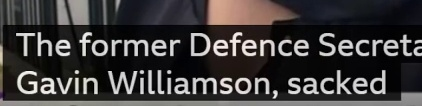
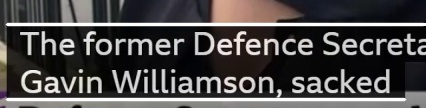
Added restrictions to prevent window navigation without filling required information. Also added 3 channel check to drawHough to make hough lines white on colour images (i.e. framePreview)

diff --git a/SubScraperGUI/GeneratedFiles/ui_OutputSelect.h b/SubScraperGUI/GeneratedFiles/ui_OutputSelect.h
@@ -23,14 +23,15 @@ class Ui_OutputSelect
 {
 public:
     QGridLayout *gridLayout;
-    QLabel *outputLabel;
     QLineEdit *outputLineEdit;
-    QPushButton *outputFileSelect;
     QLabel *transcriptLabel;
     QLineEdit *transcriptLineEdit;
-    QPushButton *transcriptFileSelect;
+    QPushButton *outputFileSelect;
     QPushButton *backButton;
+    QPushButton *transcriptFileSelect;
+    QLabel *outputLabel;
     QPushButton *goButton;
+    QLabel *continueWarning;
 
     void setupUi(QWidget *OutputSelect)
     {
@@ -41,20 +42,10 @@ public:
         gridLayout->setSpacing(6);
         gridLayout->setContentsMargins(11, 11, 11, 11);
         gridLayout->setObjectName(QString::fromUtf8("gridLayout"));
-        outputLabel = new QLabel(OutputSelect);
-        outputLabel->setObjectName(QString::fromUtf8("outputLabel"));
-
-        gridLayout->addWidget(outputLabel, 0, 0, 1, 1);
-
         outputLineEdit = new QLineEdit(OutputSelect);
         outputLineEdit->setObjectName(QString::fromUtf8("outputLineEdit"));
 
         gridLayout->addWidget(outputLineEdit, 1, 0, 1, 2);
-
-        outputFileSelect = new QPushButton(OutputSelect);
-        outputFileSelect->setObjectName(QString::fromUtf8("outputFileSelect"));
-
-        gridLayout->addWidget(outputFileSelect, 1, 2, 1, 1);
 
         transcriptLabel = new QLabel(OutputSelect);
         transcriptLabel->setObjectName(QString::fromUtf8("transcriptLabel"));
@@ -66,20 +57,35 @@ public:
 
         gridLayout->addWidget(transcriptLineEdit, 3, 0, 1, 2);
 
+        outputFileSelect = new QPushButton(OutputSelect);
+        outputFileSelect->setObjectName(QString::fromUtf8("outputFileSelect"));
+
+        gridLayout->addWidget(outputFileSelect, 1, 2, 1, 1);
+
+        backButton = new QPushButton(OutputSelect);
+        backButton->setObjectName(QString::fromUtf8("backButton"));
+
+        gridLayout->addWidget(backButton, 5, 0, 1, 1);
+
         transcriptFileSelect = new QPushButton(OutputSelect);
         transcriptFileSelect->setObjectName(QString::fromUtf8("transcriptFileSelect"));
 
         gridLayout->addWidget(transcriptFileSelect, 3, 2, 1, 1);
 
-        backButton = new QPushButton(OutputSelect);
-        backButton->setObjectName(QString::fromUtf8("backButton"));
+        outputLabel = new QLabel(OutputSelect);
+        outputLabel->setObjectName(QString::fromUtf8("outputLabel"));
 
-        gridLayout->addWidget(backButton, 4, 0, 1, 1);
+        gridLayout->addWidget(outputLabel, 0, 0, 1, 1);
 
         goButton = new QPushButton(OutputSelect);
         goButton->setObjectName(QString::fromUtf8("goButton"));
 
-        gridLayout->addWidget(goButton, 4, 1, 1, 2);
+        gridLayout->addWidget(goButton, 5, 1, 1, 2);
+
+        continueWarning = new QLabel(OutputSelect);
+        continueWarning->setObjectName(QString::fromUtf8("continueWarning"));
+
+        gridLayout->addWidget(continueWarning, 4, 0, 1, 1);
 
 
         retranslateUi(OutputSelect);
@@ -90,12 +96,13 @@ public:
     void retranslateUi(QWidget *OutputSelect)
     {
         OutputSelect->setWindowTitle(QCoreApplication::translate("OutputSelect", "OutputSelect", nullptr));
-        outputLabel->setText(QCoreApplication::translate("OutputSelect", "Output file:", nullptr));
-        outputFileSelect->setText(QCoreApplication::translate("OutputSelect", "...", nullptr));
         transcriptLabel->setText(QCoreApplication::translate("OutputSelect", "Transcript file:", nullptr));
-        transcriptFileSelect->setText(QCoreApplication::translate("OutputSelect", "...", nullptr));
+        outputFileSelect->setText(QCoreApplication::translate("OutputSelect", "...", nullptr));
         backButton->setText(QCoreApplication::translate("OutputSelect", "Back", nullptr));
+        transcriptFileSelect->setText(QCoreApplication::translate("OutputSelect", "...", nullptr));
+        outputLabel->setText(QCoreApplication::translate("OutputSelect", "Output file:", nullptr));
         goButton->setText(QCoreApplication::translate("OutputSelect", "Go", nullptr));
+        continueWarning->setText(QString());
     } // retranslateUi
 
 };

diff --git a/SubScraperGUI/GeneratedFiles/ui_BuildProfile.h b/SubScraperGUI/GeneratedFiles/ui_BuildProfile.h
@@ -34,7 +34,6 @@ public:
     QHBoxLayout *horizontalLayout_2;
     QLineEdit *inputLineEdit;
     QPushButton *fileSelect;
-    QSpacerItem *horizontalSpacer_2;
     QPushButton *previewButton;
     QHBoxLayout *horizontalLayout_3;
     QLabel *widthBeginLabel;
@@ -53,6 +52,7 @@ public:
     QPushButton *continueButton;
     QPushButton *frameForward;
     QHBoxLayout *horizontalLayout_5;
+    QLabel *continueWarning;
     QSpacerItem *horizontalSpacer;
     QPushButton *backButton;
 
@@ -94,10 +94,6 @@ public:
         fileSelect->setObjectName(QString::fromUtf8("fileSelect"));
 
         horizontalLayout_2->addWidget(fileSelect);
-
-        horizontalSpacer_2 = new QSpacerItem(88, 20, QSizePolicy::Expanding, QSizePolicy::Minimum);
-
-        horizontalLayout_2->addItem(horizontalSpacer_2);
 
         previewButton = new QPushButton(BuildProfile);
         previewButton->setObjectName(QString::fromUtf8("previewButton"));
@@ -203,6 +199,11 @@ public:
         horizontalLayout_5 = new QHBoxLayout();
         horizontalLayout_5->setSpacing(6);
         horizontalLayout_5->setObjectName(QString::fromUtf8("horizontalLayout_5"));
+        continueWarning = new QLabel(BuildProfile);
+        continueWarning->setObjectName(QString::fromUtf8("continueWarning"));
+
+        horizontalLayout_5->addWidget(continueWarning);
+
         horizontalSpacer = new QSpacerItem(40, 20, QSizePolicy::Expanding, QSizePolicy::Minimum);
 
         horizontalLayout_5->addItem(horizontalSpacer);
@@ -237,6 +238,7 @@ public:
         frameBack->setText(QCoreApplication::translate("BuildProfile", "<<5", nullptr));
         continueButton->setText(QCoreApplication::translate("BuildProfile", "Continue", nullptr));
         frameForward->setText(QCoreApplication::translate("BuildProfile", "5>>", nullptr));
+        continueWarning->setText(QString());
         backButton->setText(QCoreApplication::translate("BuildProfile", "Back", nullptr));
     } // retranslateUi
 

diff --git a/SubScraperGUI/BuildProfile.cpp b/SubScraperGUI/BuildProfile.cpp
@@ -74,10 +74,15 @@ void BuildProfile::on_backButton_clicked()
 
 void BuildProfile::on_continueButton_clicked()
 {
-	HeightSelect* heightSelect = new HeightSelect(ui.widthBegin->text(), ui.widthEnd->text(), ui.heightBegin->text(), ui.heightEnd->text(), ui.inputLineEdit->text(), cap.get(CAP_PROP_POS_FRAMES));
-	heightSelect->setAttribute(Qt::WA_DeleteOnClose);
-	heightSelect->show();
-	this->close();
+	if (ui.widthBegin->text().isEmpty() || ui.widthEnd->text().isEmpty() || ui.heightBegin->text().isEmpty() || ui.heightEnd->text().isEmpty() || ui.inputLineEdit->text().isEmpty()) {
+		ui.continueWarning->setText("Please select a video file and ensure all crop height and width parameters are filled before continuing.");
+	}
+	else {
+		HeightSelect* heightSelect = new HeightSelect(ui.widthBegin->text(), ui.widthEnd->text(), ui.heightBegin->text(), ui.heightEnd->text(), ui.inputLineEdit->text(), cap.get(CAP_PROP_POS_FRAMES));
+		heightSelect->setAttribute(Qt::WA_DeleteOnClose);
+		heightSelect->show();
+		this->close();
+	}
 }
 
 void BuildProfile::on_fileSelect_clicked()

diff --git a/SubScraperGUI/GeneratedFiles/ui_HeightSelect.h b/SubScraperGUI/GeneratedFiles/ui_HeightSelect.h
@@ -38,6 +38,7 @@ public:
     QPushButton *continueButton;
     QLineEdit *singleLineEdit;
     QLineEdit *doubleLineEdit;
+    QLabel *continueWarning;
 
     void setupUi(QWidget *HeightSelect)
     {
@@ -113,6 +114,11 @@ public:
 
         gridLayout->addWidget(doubleLineEdit, 4, 2, 1, 1);
 
+        continueWarning = new QLabel(HeightSelect);
+        continueWarning->setObjectName(QString::fromUtf8("continueWarning"));
+
+        gridLayout->addWidget(continueWarning, 5, 2, 1, 1);
+
 
         retranslateUi(HeightSelect);
 
@@ -132,6 +138,7 @@ public:
         autoLabel->setText(QCoreApplication::translate("HeightSelect", "auto detect box heights", nullptr));
         frameForward->setText(QCoreApplication::translate("HeightSelect", "5>>", nullptr));
         continueButton->setText(QCoreApplication::translate("HeightSelect", "Continue", nullptr));
+        continueWarning->setText(QString());
     } // retranslateUi
 
 };

diff --git a/SubScraperGUI/Frame.cpp b/SubScraperGUI/Frame.cpp
@@ -79,10 +79,20 @@ void Frame::detectHorizontalHough(cv::Mat frame, vector<cv::Vec4i>& lines, int& 
 void Frame::drawHough(cv::Mat& dst, vector<cv::Vec4i> filteredLines)
 {
 	//draw filtered lines
-	if (!filteredLines.empty()) {
-		for (size_t i = 0; i < filteredLines.size(); i++) {
-			cv::Vec4i l = filteredLines[i];
-			line(dst, cv::Point(l[0], l[1]), cv::Point(l[2], l[3]), 255, 1, cv::LINE_AA);
+	if (dst.channels() == 1) {
+		if (!filteredLines.empty()) {
+			for (size_t i = 0; i < filteredLines.size(); i++) {
+				cv::Vec4i l = filteredLines[i];
+				line(dst, cv::Point(l[0], l[1]), cv::Point(l[2], l[3]), 255, 2, cv::LINE_AA);
+			}
+		}
+	}
+	else {
+		if (!filteredLines.empty()) {
+			for (size_t i = 0; i < filteredLines.size(); i++) {
+				cv::Vec4i l = filteredLines[i];
+				line(dst, cv::Point(l[0], l[1]), cv::Point(l[2], l[3]), cv::Scalar(255, 255, 255), 2, cv::LINE_AA);
+			}
 		}
 	}
 

diff --git a/SubScraperGUI/HeightSelect.cpp b/SubScraperGUI/HeightSelect.cpp
@@ -112,10 +112,15 @@ void HeightSelect::on_backButton_clicked()
 
 void HeightSelect::on_continueButton_clicked() 
 {
-	OutputSelect* outputSelect = new OutputSelect();
-	outputSelect->setAttribute(Qt::WA_DeleteOnClose);
-	outputSelect->show();
-	this->close();
+	if (ui.autoCheckBox->isChecked() || !ui.doubleLineEdit->text().isEmpty() && !ui.doubleLineEdit->text().isEmpty()) {
+		OutputSelect* outputSelect = new OutputSelect();
+		outputSelect->setAttribute(Qt::WA_DeleteOnClose);
+		outputSelect->show();
+		this->close();
+	}
+	else {
+		ui.continueWarning->setText("Please input heights for single and double subtitle boxes or check auto detect box heights before continuing.");
+	}
 }
 
 void HeightSelect::on_frameForward_clicked()

diff --git a/SubScraperGUI/OutputSelect.cpp b/SubScraperGUI/OutputSelect.cpp
@@ -73,3 +73,13 @@ void OutputSelect::on_transcriptFileSelect_clicked()
 		this, tr("Open File"), "C://", tr("Text files (*.txt)"));
 	ui.transcriptLineEdit->setText(filename);
 }
+
+void OutputSelect::on_goButton_clicked()
+{
+	if (ui.outputLineEdit->text().isEmpty()) {
+		ui.continueWarning->setText("Please select where to save the subtitle output before continuing.");
+	}
+	else {
+		//Go!
+	}
+}

diff --git a/SubScraperGUI/OutputSelect.h b/SubScraperGUI/OutputSelect.h
@@ -23,6 +23,7 @@ private slots:
 	void on_backButton_clicked();
 	void on_outputFileSelect_clicked();
 	void on_transcriptFileSelect_clicked();
+	void on_goButton_clicked();
 
 private:
 	Ui::OutputSelect ui;
